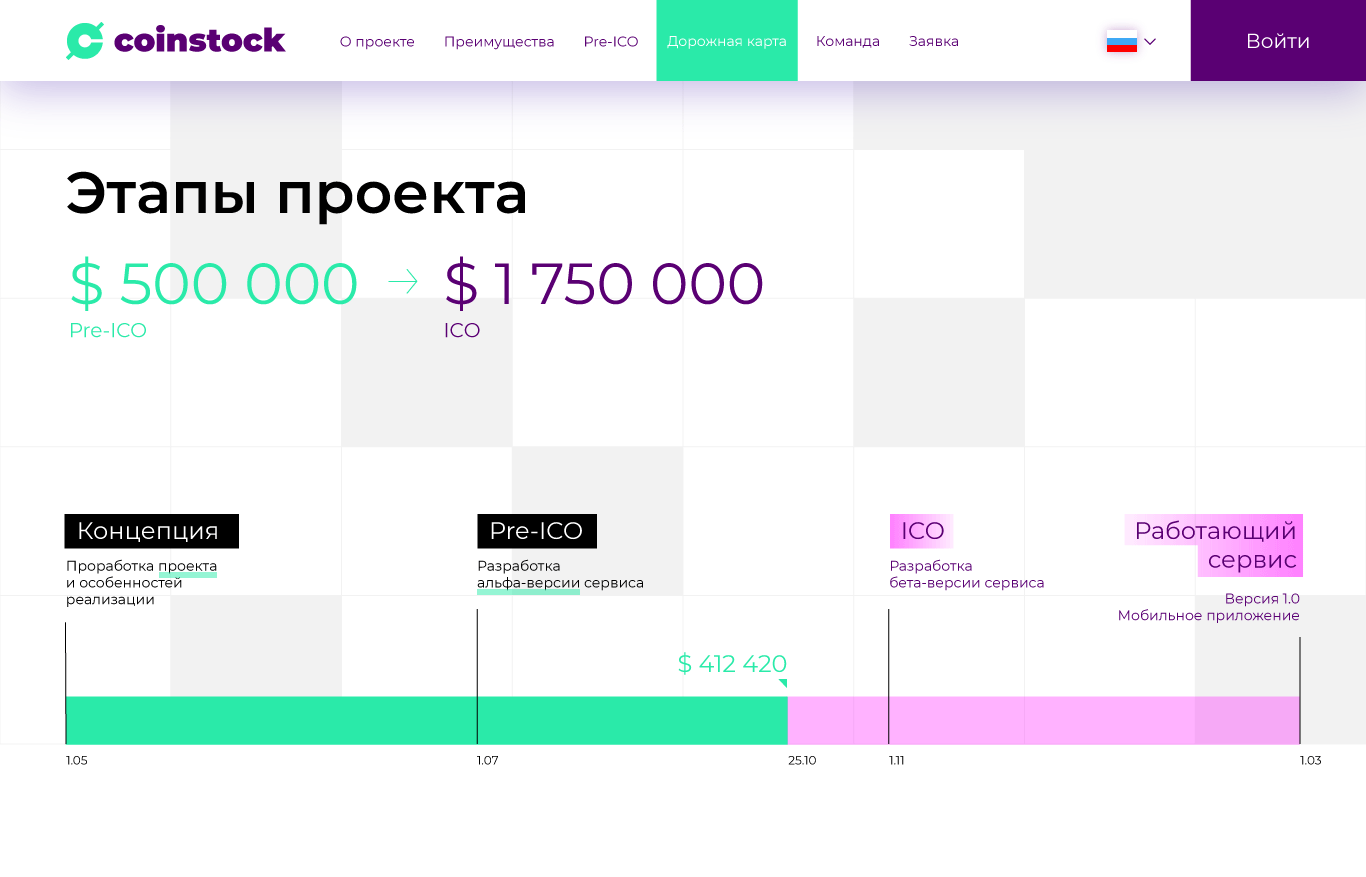
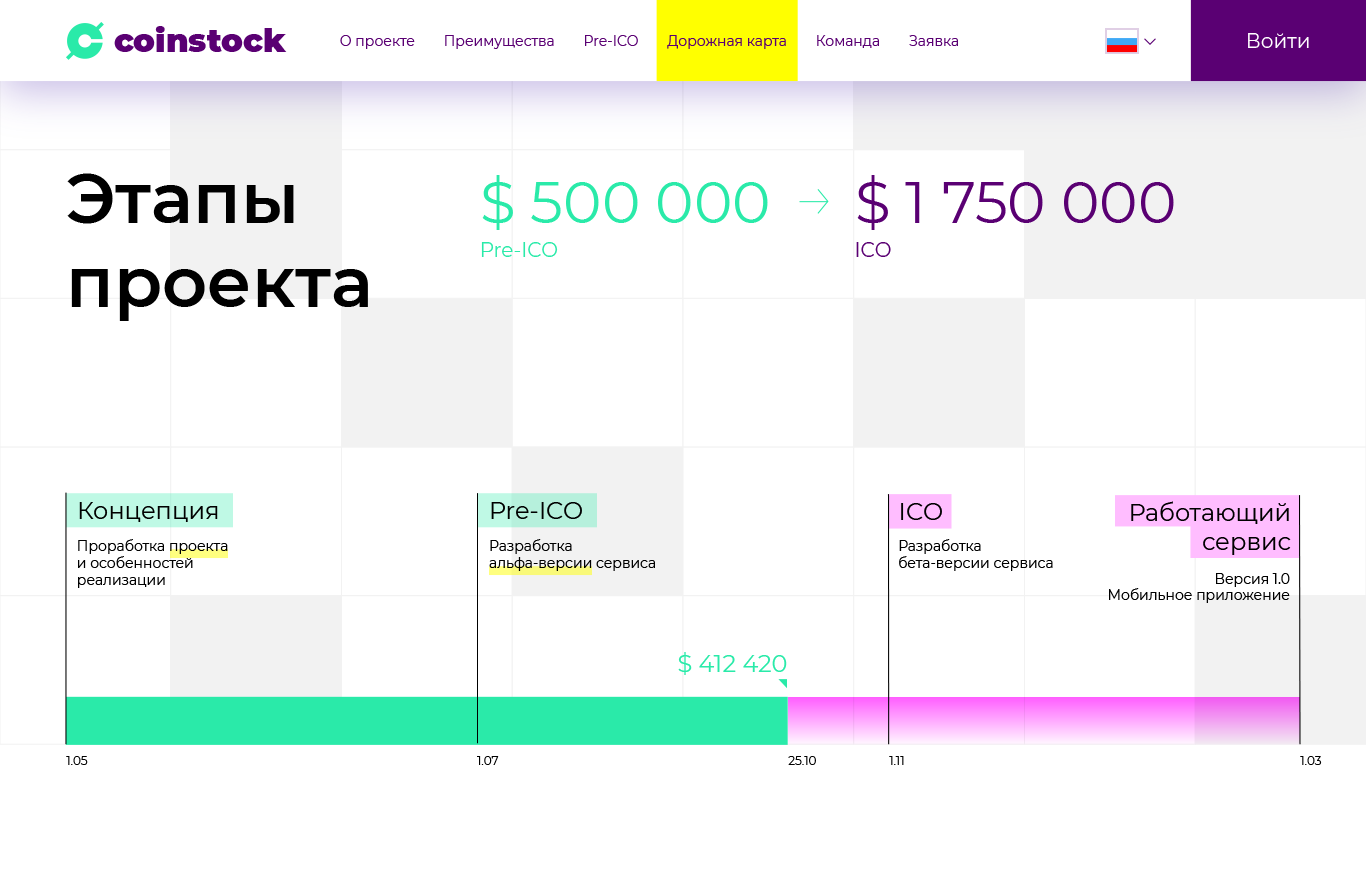
Правки++

diff --git a/css/style.css b/css/style.css
@@ -40,7 +40,7 @@ main {
   width: 120px;
   height: 120px;
   border-radius: 50%;
-  background-color: #d4d4d4;
+  background-color: #9a9a9a;
   background-image: url(../img/photo.jpg);
   background-position: center;
   background-repeat: no-repeat;
@@ -72,27 +72,24 @@ main {
 }
 
 .menu-item:hover span:before, 
-.contacts a.email:hover span:before {
+.contacts a.email:hover span:before,
+.active span:before {
   content: "";
   position: absolute;
   left: 0;
   right: 0;
   bottom: -3px;
   height: 4px;
-  background-color: #F44336;
+  background-color: #fffc00;
   z-index: -1;
 }
 
 .active {
-  color: #F44336;
+  color: #fffc00;
 }
 
 .active:hover {
-  color: #F44336;
-}
-
-.active:hover span:before {
-  display: none;
+  color: #fffc00;
 }
 
 .contacts {
@@ -123,7 +120,7 @@ main {
 }
 
 .contacts a:hover {
-  background-color: #F44336;
+  background-color: #fffc00;
 }
 
 .contacts a.email {
@@ -141,8 +138,19 @@ main {
   position: relative;
 }
 
+.contacts a.email span:before {
+  content: "";
+  position: absolute;
+  left: 0;
+  right: 0;
+  bottom: -4px;
+  height: 1px;
+  background-color: white;
+  z-index: -1;
+}
+
 .contacts a.email:hover {
-  color: #F44336;
+  color: #fffc00;
 }
 
 .page-name {
@@ -222,8 +230,8 @@ h2 {
   position: absolute;
   top: 0;
   right: 0;
-  width: 90px;
-  height: 90px;
+  width: 115px;
+  height: 115px;
   background-image: url(../img/zoom.svg);
   background-repeat: no-repeat;
   background-position: center;
@@ -243,7 +251,7 @@ h2 {
   right: 0;
   bottom: -3px;
   height: 4px;
-  background-color: #F44336;
+  background-color: #fffc00;
   z-index: -1;
 }
 
@@ -273,7 +281,7 @@ h2 {
 }
 
 /* .item-preview:hover .caption {
-  color: #F44336;
+  color: #fffc00;
 } */
 
 .module {
